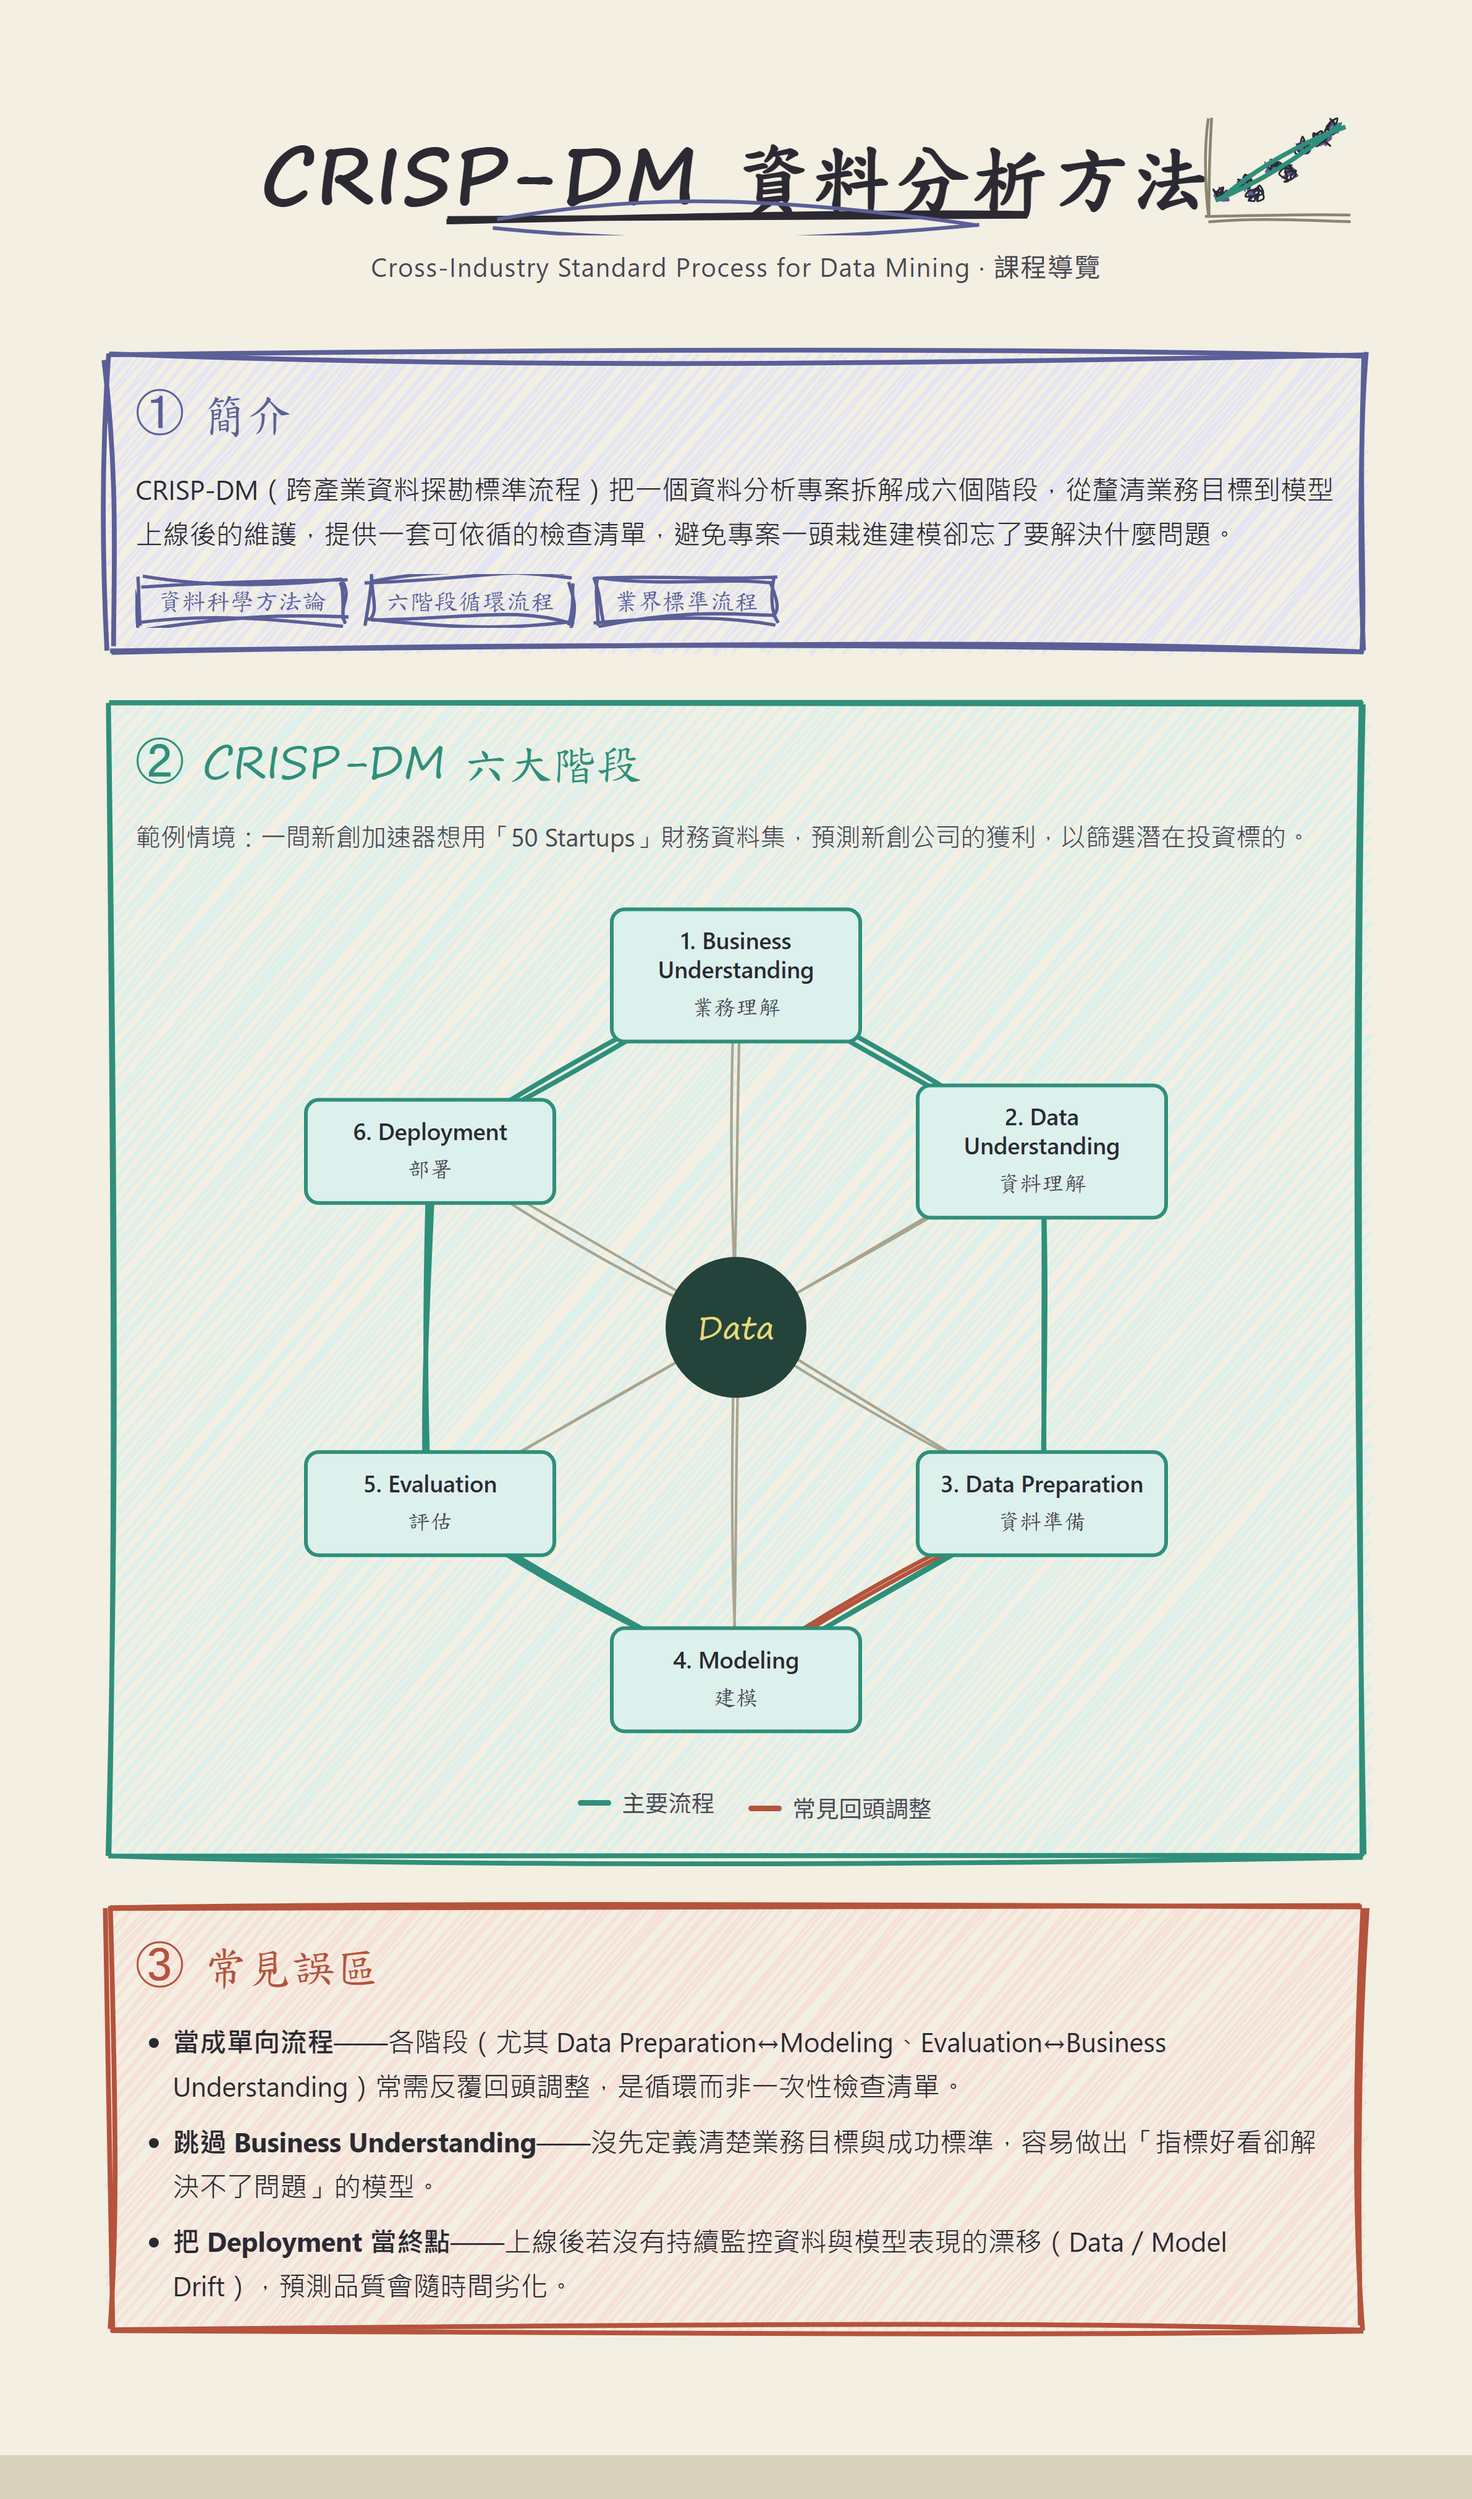
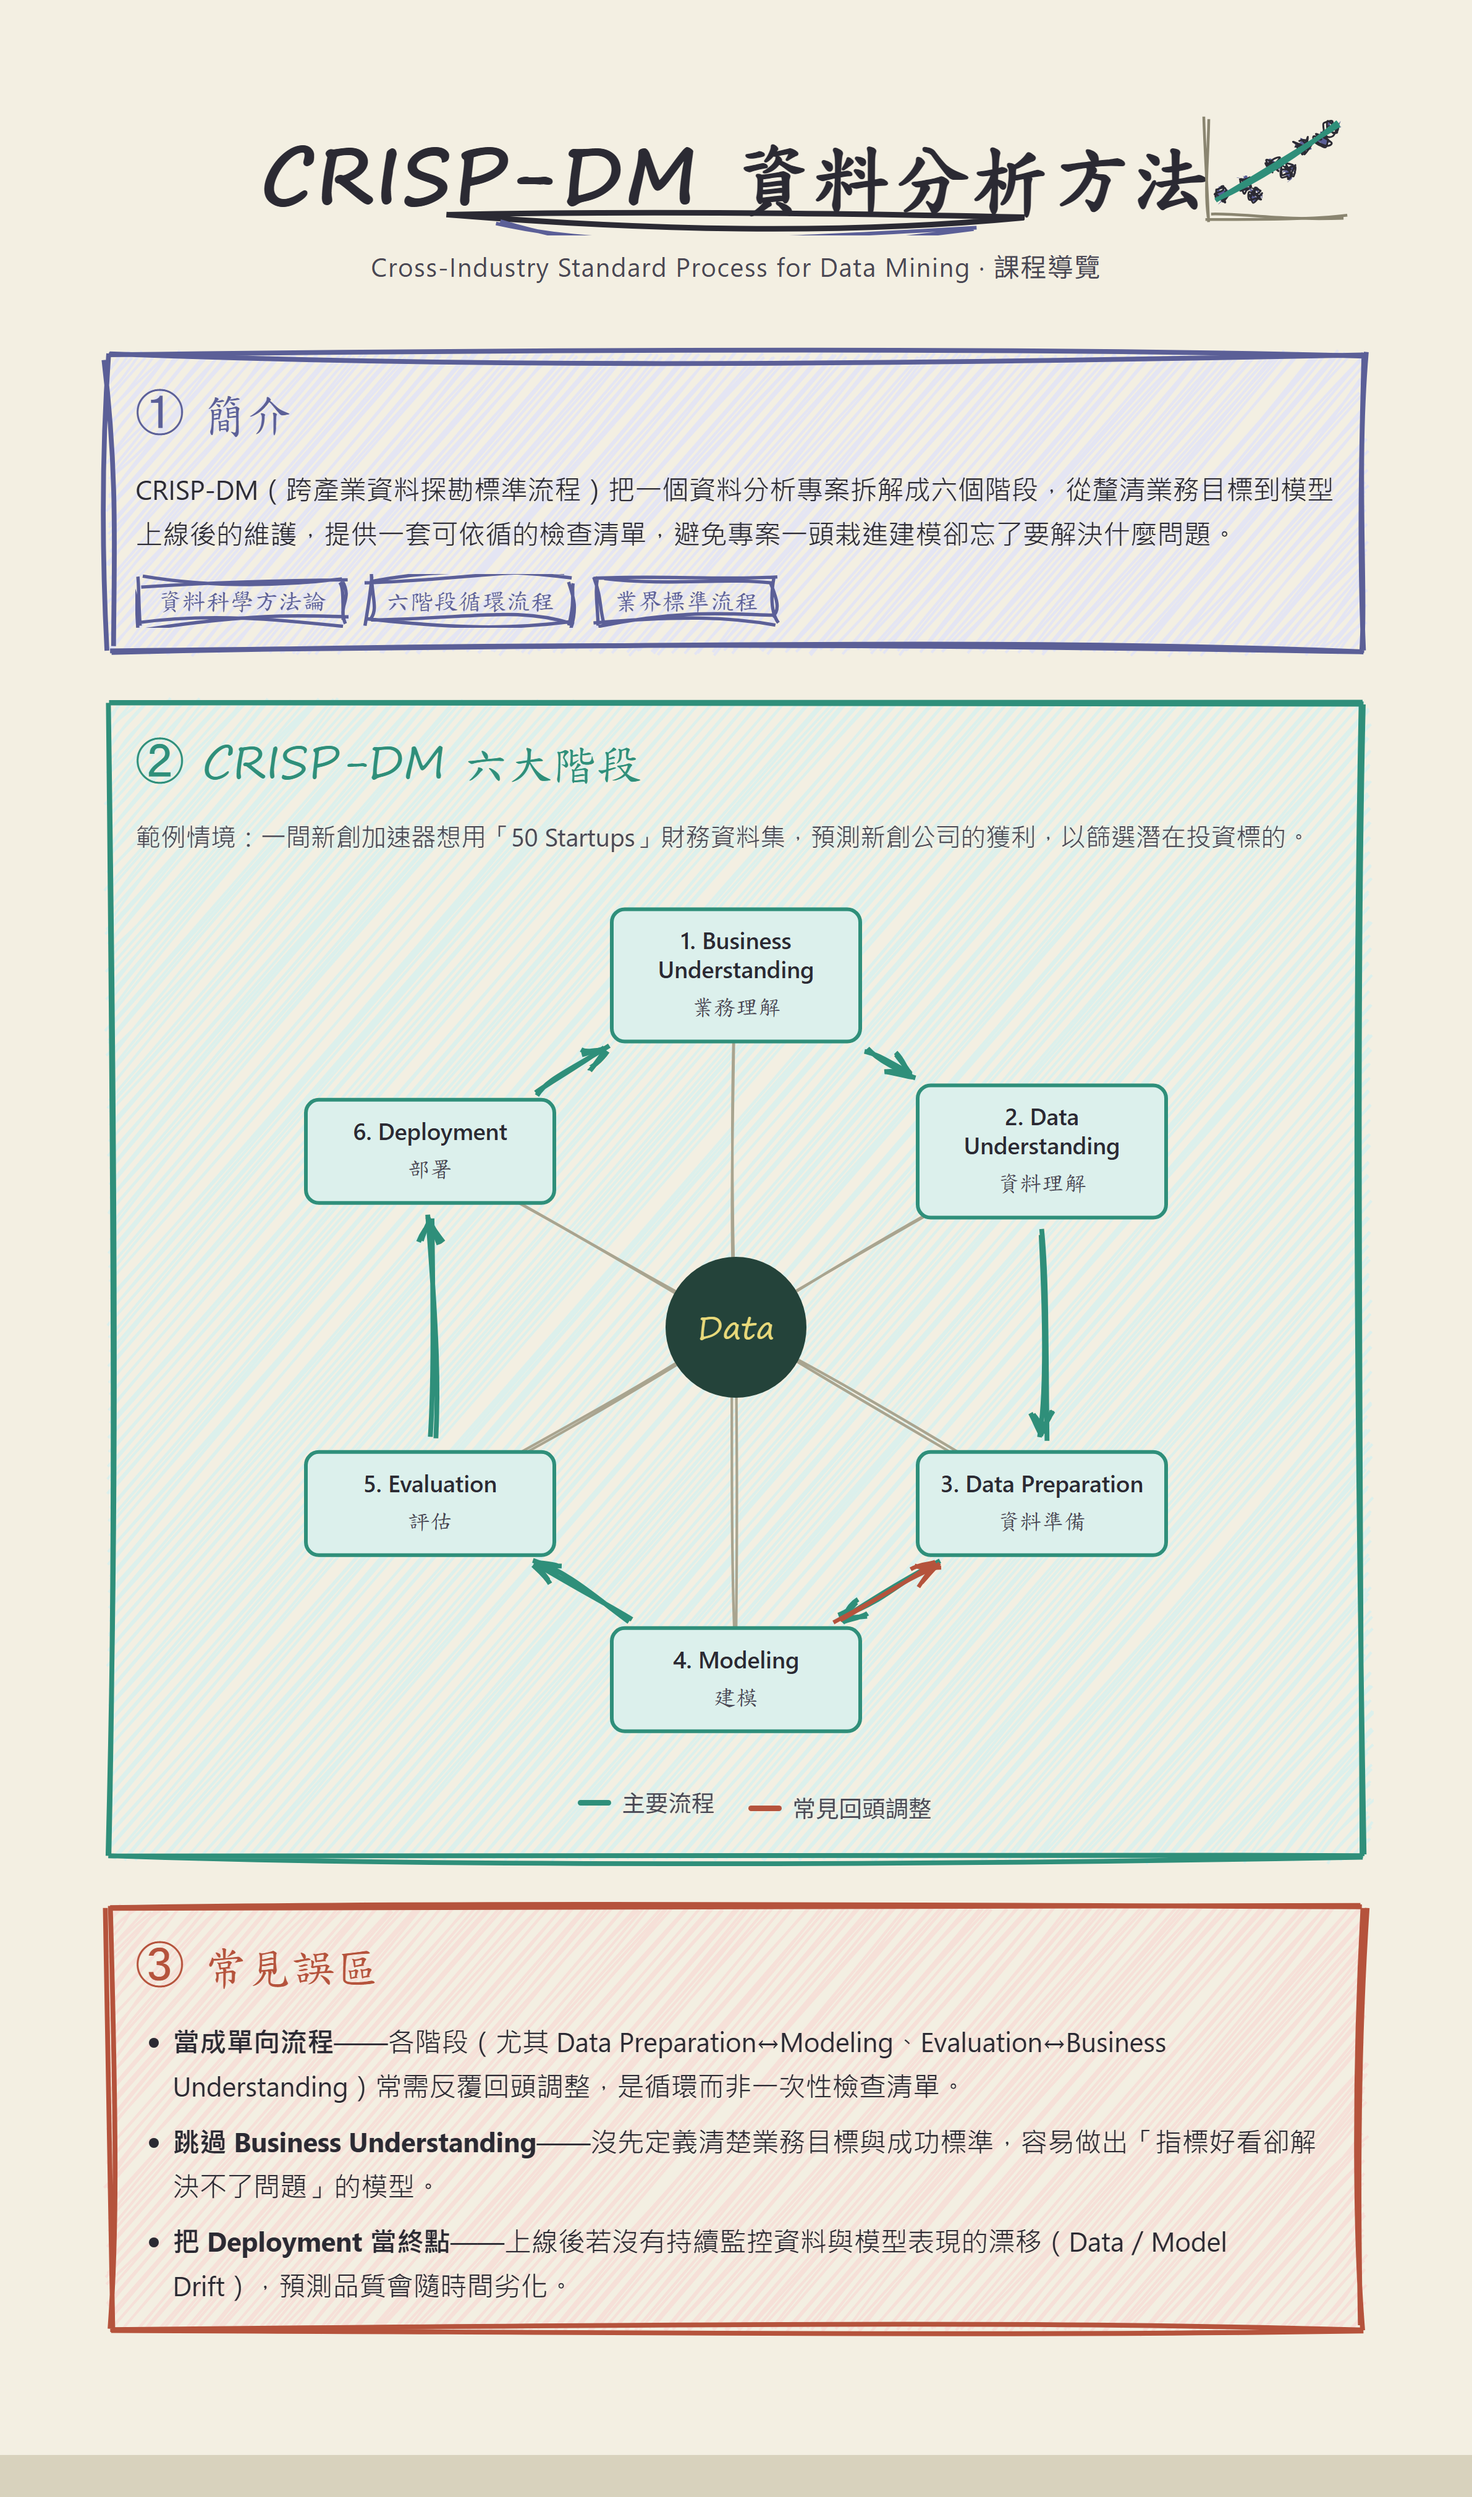
Fix cycle diagram arrowhead visibility and render script path
- drawCycleDiagram() now shortens each ring/feedback edge so the arrowhead
  lands in the visible gap between node boxes instead of under the
  destination box (previously invisible since .cycle-node sits above the
  canvas). Node box extents are measured at runtime via offsetWidth/Height
  (matched by new data-node="p1".."p6" attributes) rather than guessed,
  so the clipping adapts to the actual rendered box size.
- render-crisp-dm-infographic.ps1 now points at the permanent main-checkout
  paths instead of the disposable worktree path, matching
  render-infographic.ps1 / render-mlr-infographic.ps1.
- Regenerated crisp-dm-summary.png with visible arrowheads on all 6 ring
  edges (1->2->3->4->5->6->1) and the feedback edge, and a tightened
  render window (794,1347) that cuts the off-page bottom band from ~24px
  to ~13px without introducing a scrollbar.

diff --git a/docs/specs/assets-src/crisp-dm-summary.html b/docs/specs/assets-src/crisp-dm-summary.html
@@ -270,27 +270,27 @@
         <p class="cycle-scenario">範例情境：一間新創加速器想用「50 Startups」財務資料集，預測新創公司的獲利，以篩選潛在投資標的。</p>
         <div class="cycle-diagram" id="cycle-diagram">
           <canvas class="cycle-diagram__canvas" id="cycle-canvas"></canvas>
-          <div class="cycle-node" style="left:240px; top:50px;">
+          <div class="cycle-node" data-node="p1" style="left:240px; top:50px;">
             <div class="cycle-node__title">1. Business Understanding</div>
             <div class="cycle-node__sub">業務理解</div>
           </div>
-          <div class="cycle-node" style="left:405px; top:145px;">
+          <div class="cycle-node" data-node="p2" style="left:405px; top:145px;">
             <div class="cycle-node__title">2. Data Understanding</div>
             <div class="cycle-node__sub">資料理解</div>
           </div>
-          <div class="cycle-node" style="left:405px; top:335px;">
+          <div class="cycle-node" data-node="p3" style="left:405px; top:335px;">
             <div class="cycle-node__title">3. Data Preparation</div>
             <div class="cycle-node__sub">資料準備</div>
           </div>
-          <div class="cycle-node" style="left:240px; top:430px;">
+          <div class="cycle-node" data-node="p4" style="left:240px; top:430px;">
             <div class="cycle-node__title">4. Modeling</div>
             <div class="cycle-node__sub">建模</div>
           </div>
-          <div class="cycle-node" style="left:75px; top:335px;">
+          <div class="cycle-node" data-node="p5" style="left:75px; top:335px;">
             <div class="cycle-node__title">5. Evaluation</div>
             <div class="cycle-node__sub">評估</div>
           </div>
-          <div class="cycle-node" style="left:75px; top:145px;">
+          <div class="cycle-node" data-node="p6" style="left:75px; top:145px;">
             <div class="cycle-node__title">6. Deployment</div>
             <div class="cycle-node__sub">部署</div>
           </div>
@@ -372,6 +372,30 @@
     head(x2, y2, angle);
   }
 
+  // Shortens the segment between two node centres so both endpoints land
+  // just outside each node's rectangular box (plus a small visual gap),
+  // instead of at the box centre where an arrowhead would be hidden underneath it.
+  function edgeGap(ax, ay, aSize, bx, by, bSize, gap) {
+    var dx = bx - ax;
+    var dy = by - ay;
+    var dist = Math.sqrt(dx * dx + dy * dy) || 1;
+    var ux = dx / dist;
+    var uy = dy / dist;
+    // NOTE: uses the *unit* direction (ux, uy), not the raw (dx, dy) edge-length
+    // components, since t is a distance-from-centre scale factor along a unit vector.
+    function boxT(halfW, halfH) {
+      if (ux === 0) return halfH / Math.abs(uy);
+      if (uy === 0) return halfW / Math.abs(ux);
+      return Math.min(halfW / Math.abs(ux), halfH / Math.abs(uy));
+    }
+    var ta = boxT(aSize.halfW, aSize.halfH) + gap;
+    var tb = boxT(bSize.halfW, bSize.halfH) + gap;
+    return {
+      x1: ax + ux * ta, y1: ay + uy * ta,
+      x2: bx - ux * tb, y2: by - uy * tb,
+    };
+  }
+
   function drawCycleDiagram() {
     var canvas = document.getElementById('cycle-canvas');
     var container = document.getElementById('cycle-diagram');
@@ -394,6 +418,15 @@
     };
     var hub = [240, 240];
 
+    // Measure each node's actual rendered box (half-width/half-height) so the
+    // edge-shortening below matches real layout, not a guessed constant.
+    var nodeSizes = {};
+    container.querySelectorAll('.cycle-node[data-node]').forEach(function (el) {
+      var key = el.getAttribute('data-node');
+      nodeSizes[key] = { halfW: el.offsetWidth / 2, halfH: el.offsetHeight / 2 };
+    });
+    var edgeGapPx = 8;
+
     var mainOpts = { roughness: 1.6, bowing: 1.8, stroke: '#2f8f7a', strokeWidth: 2.6 };
     var spokeOpts = { roughness: 1.4, bowing: 1.4, stroke: '#a9a48f', strokeWidth: 1.4 };
     var feedbackOpts = { roughness: 2.2, bowing: 3, stroke: '#b5533c', strokeWidth: 2.2 };
@@ -404,12 +437,16 @@
 
     var ring = ['p1', 'p2', 'p3', 'p4', 'p5', 'p6'];
     for (var i = 0; i < ring.length; i++) {
-      var from = nodes[ring[i]];
-      var to = nodes[ring[(i + 1) % ring.length]];
-      drawArrow(rc, from[0], from[1], to[0], to[1], mainOpts);
+      var fromKey = ring[i];
+      var toKey = ring[(i + 1) % ring.length];
+      var from = nodes[fromKey];
+      var to = nodes[toKey];
+      var pts = edgeGap(from[0], from[1], nodeSizes[fromKey], to[0], to[1], nodeSizes[toKey], edgeGapPx);
+      drawArrow(rc, pts.x1, pts.y1, pts.x2, pts.y2, mainOpts);
     }
 
-    drawArrow(rc, nodes.p4[0], nodes.p4[1], nodes.p3[0], nodes.p3[1], feedbackOpts);
+    var fb = edgeGap(nodes.p4[0], nodes.p4[1], nodeSizes.p4, nodes.p3[0], nodes.p3[1], nodeSizes.p3, edgeGapPx);
+    drawArrow(rc, fb.x1, fb.y1, fb.x2, fb.y2, feedbackOpts);
   }
 
   var palette = {
